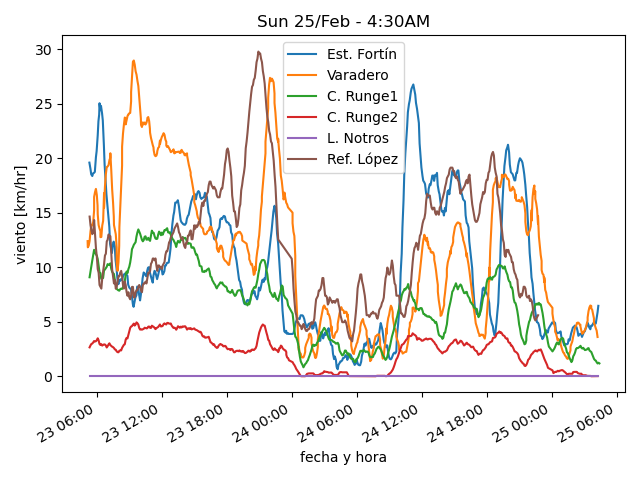
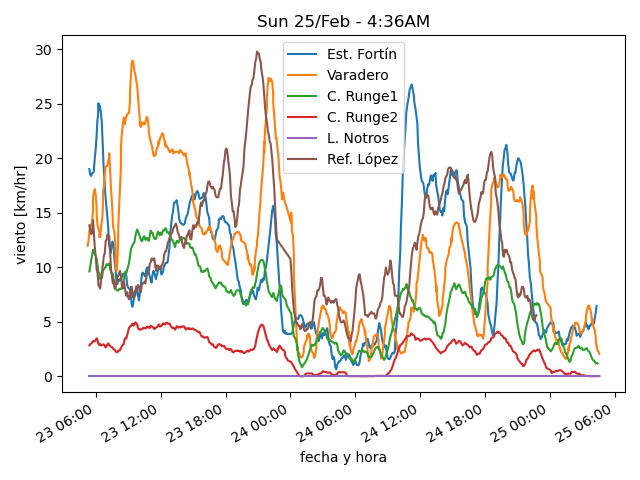
actualiza datos

diff --git a/estaciones/estacion2.html b/estaciones/estacion2.html
@@ -18,32 +18,32 @@
     </tr>
     <tr>
      <td class="stats_data">
-      4:14AM
+      4:34AM
      </td>
     </tr>
     <tr>
      <td class="stats_data">
-      12.3
+      12.1
      </td>
     </tr>
     <tr>
      <td class="stats_data">
-      5.1
+      4.8
      </td>
     </tr>
     <tr>
      <td class="stats_data">
-      61.2
+      61.0
      </td>
     </tr>
     <tr>
      <td class="stats_data">
-      1014.83
+      1014.73
      </td>
     </tr>
     <tr>
      <td class="stats_data">
-      0.5/1.1 SSW
+      0.1/0.1 W
      </td>
     </tr>
     <tr>

diff --git a/estaciones/estacion5.html b/estaciones/estacion5.html
@@ -18,27 +18,27 @@
     </tr>
     <tr>
      <td class="stats_data">
-      4:15AM
+      4:30AM
      </td>
     </tr>
     <tr>
      <td class="stats_data">
-      6.3
+      6.1
      </td>
     </tr>
     <tr>
      <td class="stats_data">
-      2.8
+      3.1
      </td>
     </tr>
     <tr>
      <td class="stats_data">
-      78.0
+      81.0
      </td>
     </tr>
     <tr>
      <td class="stats_data">
-      1022.89
+      1022.96
      </td>
     </tr>
     <tr>

diff --git a/estaciones/estacion4.html b/estaciones/estacion4.html
@@ -18,12 +18,12 @@
     </tr>
     <tr>
      <td class="stats_data">
-      4:14AM
+      4:34AM
      </td>
     </tr>
     <tr>
      <td class="stats_data">
-      11.4
+      11.3
      </td>
     </tr>
     <tr>
@@ -33,7 +33,7 @@
     </tr>
     <tr>
      <td class="stats_data">
-      79.9
+      80.6
      </td>
     </tr>
     <tr>
